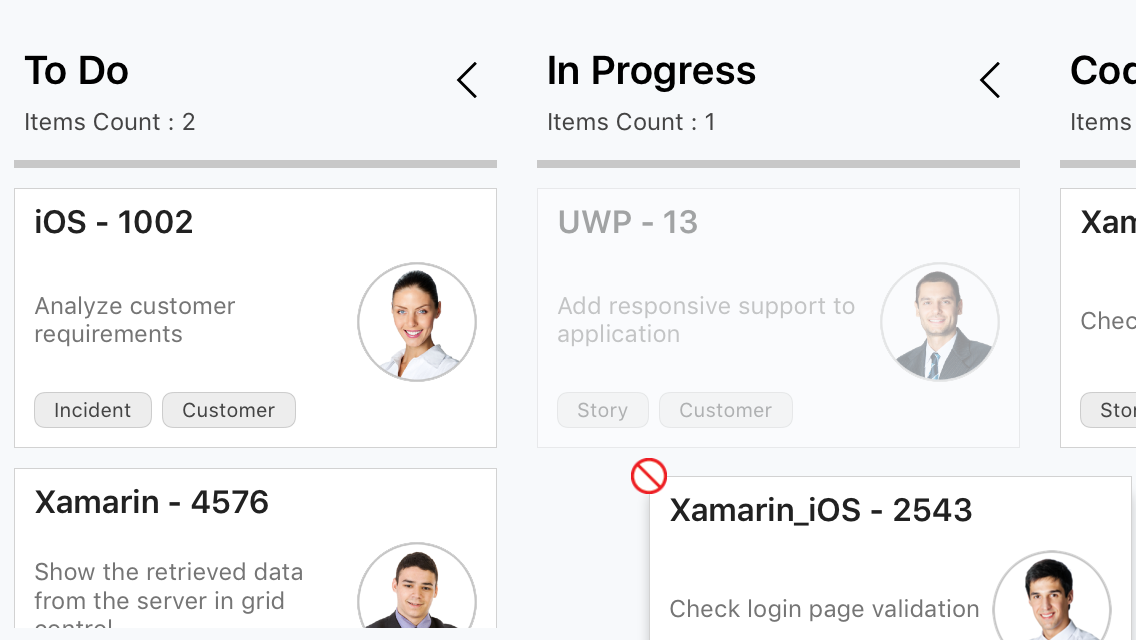
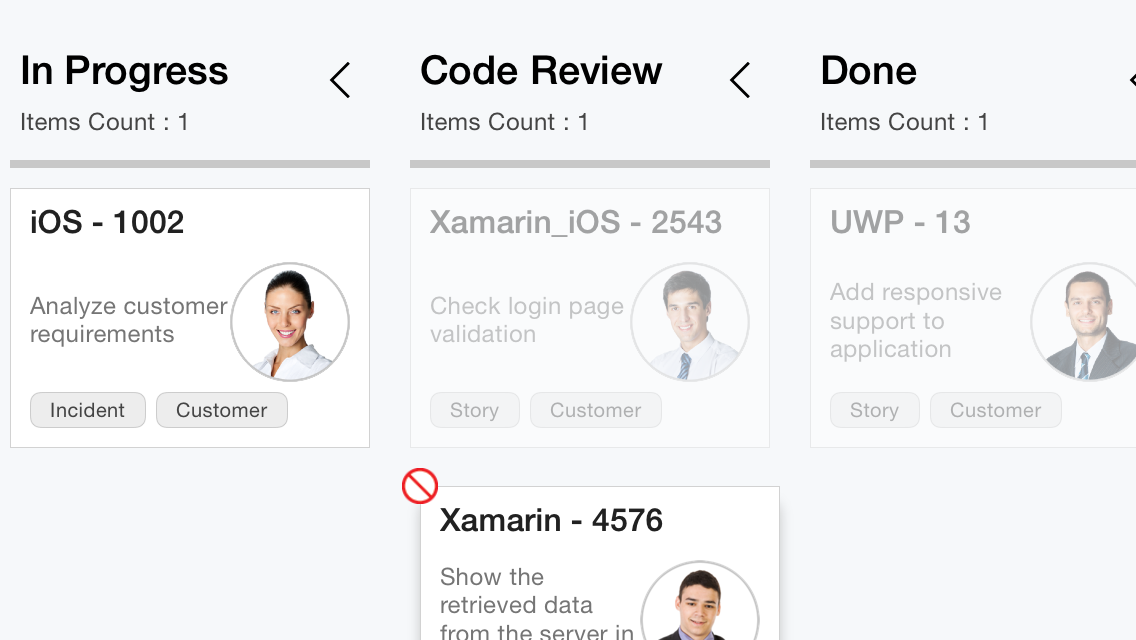
Workflows image changed

diff --git a/Xamarin/SfKanban/Workflows.md b/Xamarin/SfKanban/Workflows.md
@@ -37,7 +37,7 @@ kanban.Workflows = workflows;
 {% endhighlight %}
 
 
-In the below output, you can see the card which was picked from Open state is not allowed to drop on “Code Review” state, because we have defined to move the card from Open to “In Progress” state only and not to any other states.
+In the below output, you can see the card which was picked from Open state is not allowed to drop on “Code Review” and "Done" state, because we have defined to move the card from Open to “In Progress” state only and not to any other states.
 
 
 ![](SfKanban_images/Workflows.png)
